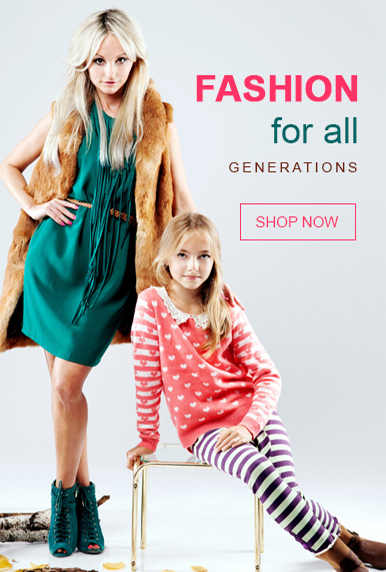
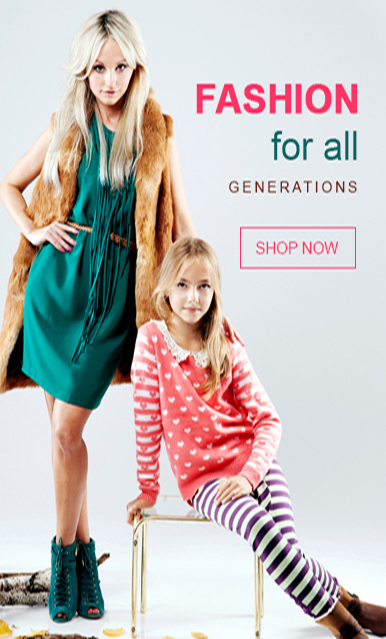
Q

diff --git a/index.html b/index.html
@@ -556,12 +556,13 @@
                                     <li><a href="#">Sunglasses</a></li>
                                     <li><a href="#">Fishing Tackle Bags</a></li>
                                     <li><a href="#">Camping Stoves</a></li>
-		                            <li><a href="#">Cycling Jerseys</a></li>
+		                                <li><a href="#">Cycling Jerseys</a></li>
                                     <li><a href="#">Basketball Shoes</a></li>
                                 </ul>
                             </div>
                             <div class="item">
                                 <ul class="sub-category-list">
+                                    <li><a href="#">Cycling Jerseys</a></li>
                                     <li><a href="#">Tent</a></li>
                                     <li><a href="#">Hiking Shoes</a></li>
                                     <li><a href="#">Cycling Jerseys</a></li>
@@ -573,9 +574,7 @@
                                     <li><a href="#">Sunglasses</a></li>
                                     <li><a href="#">Fishing Tackle Bags</a></li>
                                     <li><a href="#">Camping Stoves</a></li>
-		                            <li><a href="#">Cycling Jerseys</a></li>
-		                            <li><a href="#">Cycling Jerseys</a></li>
-		                            
+                                    <li><a href="#">Cycling Jerseys</a></li>
                                 </ul>
                             </div>
                         </div>
@@ -586,8 +585,8 @@
                                 <div class="tab-panel active" id="tab-4">
                                    <div class="box-left">
                                         <ul class="owl-intab owl-carousel" data-loop="true" data-items="1" data-autoplay="true" data-dots="false" data-nav="true">
-                                            <li><a href="#"><img src="assets/data/banner-product1.jpg" alt="Image" style="height:522px;"></a></li>
-                                            <li><a href="#"><img src="assets/data/banner-product2.jpg" alt="Image" style="height:522px;"></a></li>
+                                            <li><a href="#"><img src="assets/data/banner-product1.jpg" alt="Image"></a></li>
+                                            <li><a href="#"><img src="assets/data/banner-product2.jpg" alt="Image"></a></li>
                                         </ul>
                                    </div>
                                    <div class="box-right">
@@ -904,11 +903,12 @@
                                 <div class="tab-panel active" id="tab-6">
                                     <div class="box-left">
                                         <div class="banner-img">
-                                            <a href="#"><img src="assets/data/banner-product1.jpg" alt="Banner Product" style="height: 522px"></a>
+                                            <a href="#"><img src="assets/data/banner-product1.jpg" alt="Banner Product"></a>
                                         </div>
                                     </div>
                                     <div class="box-right">
                                         <ul class="product-list row">
+                                          <!--
                                             <li class="col-sm-4">
                                                 <div class="right-block">
                                                     <h5 class="product-name"><a href="#">Sexy Sport Shoes</a></h5>
@@ -1028,7 +1028,130 @@
                                                             </div>
                                                         </figure>
                                                     </div>
-                                                </li>
+                                                </li> -->
+                                                
+                                            <li class="col-sm-4">
+                                              <div class="left-block">
+                                                  <span class="discount">15%</span>
+                                                  <a href="#"><img class="img-responsive" alt="product" src="assets/data/p48.jpg" /></a>
+                                                  <figure class="mask-info">
+                                                      <span>Màn hình: Retina HD, 5.5 inches</span><span>HĐH: iOS 9</span><span>CPU: A9 64 bit, RAM 2GB</span><span>Camera: 12.0MP, 1 SIM</span><span>Dung lượng pin: 2750 mAh</span>
+                                                      <div class="btn-action">
+                                                        <a class="btnorder" href="#">Đặt hàng</a>
+                                                        <a class="viewdetail" href="#">Chi tiết</a>
+                                                      </div>
+                                                  </figure>
+                                              </div>
+                                              <div class="right-block">
+                                                  <h5 class="product-name"><a href="#">Sexy Red Dress Sexy Red Dress Sexy Red Dress</a></h5>
+                                                  <div class="content_price">
+                                                      <span class="price product-price">99,000,000</span>
+                                                      <span class="price old-price">99,000,000</span>
+                                                  </div>
+                                              </div>
+                                              <a rel="nofollow" href="#" class="add_to_cart_button">Mua</a>
+                                          </li>
+                                          <li class="col-sm-4">
+                                              <div class="left-block">
+                                                  <span class="discount">5%</span>
+                                                  <a href="#"><img class="img-responsive" alt="product" src="assets/data/p49.jpg" /></a>
+                                                  <div class="add-to-cart">
+                                                      <a title="Add to Cart" href="javascript:(void);">Mua ngay</a>
+                                                  </div>
+                                              </div>
+                                              <div class="right-block">
+                                                  <h5 class="product-name"><a href="#">Mesh Dress Taupe</a></h5>
+                                                  <div class="content_price">
+                                                      <span class="price product-price">99,000,000</span>
+                                                      <span class="price old-price">99,000,000</span>
+                                                  </div>
+                                                  <a rel="nofollow" href="#" class="add_to_cart_button">Mua</a>
+                                              </div>
+                                          </li>
+                                          <li class="col-sm-4">
+                                              <div class="left-block">
+                                                  <span class="discount">17%</span>
+                                                  <a href="#"><img class="img-responsive" alt="product" src="assets/data/p50.jpg" /></a>
+                                                  <figure class="mask-info">
+                                                      <span>Màn hình: Retina HD, 5.5 inches</span><span>HĐH: iOS 9</span><span>CPU: A9 64 bit, RAM 2GB</span><span>Camera: 12.0MP, 1 SIM</span><span>Dung lượng pin: 2750 mAh</span>
+                                                      <div class="btn-action">
+                                                        <a class="fast-view" href="javascript:(void);"></a>
+                                                        <a class="view-detail" href="detail.html"></a>
+                                                      </div>
+                                                  </figure>
+                                              </div>
+                                              <div class="right-block">
+                                                  <h5 class="product-name"><a href="#">Sexy Summer Dress</a></h5>
+                                                  <div class="content_price">
+                                                      <span class="price product-price">99,000,000</span>
+                                                      <span class="price old-price">99,000,000</span>
+                                                  </div>
+                                                  <a rel="nofollow" href="#" class="add_to_cart_button">Mua</a>
+                                              </div>
+                                          </li>
+                                          <li class="col-sm-4">
+                                              <div class="left-block">
+                                                  <span class="discount">35%</span>
+                                                  <a href="#"><img class="img-responsive" alt="product" src="assets/data/p51.jpg" /></a>
+                                                  <figure class="mask-info">
+                                                      <span>Màn hình: Retina HD, 5.5 inches</span><span>HĐH: iOS 9</span><span>CPU: A9 64 bit, RAM 2GB</span><span>Camera: 12.0MP, 1 SIM</span><span>Dung lượng pin: 2750 mAh</span>
+                                                      <div class="btn-action">
+                                                        <a class="fast-view" href="javascript:(void);"></a>
+                                                        <a class="view-detail" href="detail.html"></a>
+                                                      </div>
+                                                  </figure>
+                                              </div>
+                                              <div class="right-block">
+                                                  <h5 class="product-name"><a href="#">Comfor & Pretty Dress</a></h5>
+                                                  <div class="content_price">
+                                                      <span class="price product-price">99,000,000</span>
+                                                      <span class="price old-price hide">99,000,000</span>
+                                                  </div>
+                                                  <a rel="nofollow" href="#" class="add_to_cart_button">Mua</a>
+                                              </div>
+                                          </li>
+                                          <li class="col-sm-4">
+                                              <div class="left-block">
+                                                  <span class="discount">9%</span>
+                                                  <a href="#"><img class="img-responsive" alt="product" src="assets/data/p52.jpg" /></a>
+                                                  <figure class="mask-info">
+                                                      <span>Màn hình: Retina HD, 5.5 inches</span><span>HĐH: iOS 9</span><span>CPU: A9 64 bit, RAM 2GB</span><span>Camera: 12.0MP, 1 SIM</span><span>Dung lượng pin: 2750 mAh</span>
+                                                      <div class="btn-action">
+                                                        <a class="fast-view" href="javascript:(void);"></a>
+                                                        <a class="view-detail" href="detail.html"></a>
+                                                      </div>
+                                                  </figure>
+                                              </div>
+                                              <div class="right-block">
+                                                  <h5 class="product-name"><a href="#">Sexy Perfect Light</a></h5>
+                                                  <div class="content_price">
+                                                      <span class="price product-price">99,000,000</span>
+                                                      <span class="price old-price">99,000,000</span>
+                                                  </div>
+                                                  <a rel="nofollow" href="#" class="add_to_cart_button">Mua</a>
+                                              </div>
+                                          </li>
+                                          <li class="col-sm-4">
+                                              <div class="left-block">
+                                                  <span class="discount">16%</span>
+                                                  <a href="#"><img class="img-responsive" alt="product" src="assets/data/p53.jpg" /></a>
+                                                  <figure class="mask-info">
+                                                      <span>Màn hình: Retina HD, 5.5 inches</span><span>HĐH: iOS 9</span><span>CPU: A9 64 bit, RAM 2GB</span><span>Camera: 12.0MP, 1 SIM</span><span>Dung lượng pin: 2750 mAh</span>
+                                                      <div class="btn-action">
+                                                        <a class="fast-view" href="javascript:(void);"></a>
+                                                        <a class="view-detail" href="detail.html"></a>
+                                                      </div>
+                                                  </figure>
+                                              </div>
+                                              <div class="right-block">
+                                                  <h5 class="product-name"><a href="#">New Style & Fresh</a></h5>
+                                                  <div class="content_price">
+                                                      <span class="price product-price">$138,95</span>
+                                                      <span class="price old-price">$152,00</span>
+                                                  </div>
+                                                  <a rel="nofollow" href="#" class="add_to_cart_button">Mua</a>
+                                              </div>
+                                          </li>
                                         </ul>
                                     </div>
                                 </div>

diff --git a/assets/css/style.css b/assets/css/style.css
@@ -2283,7 +2283,7 @@ span.notify-right{
 }
 .product-list li .product-name{
     padding-bottom: 5px;
-    height: 36px;
+    height: 35px;
     overflow: hidden;
 }
 .product-list li .product-name a:hover{
